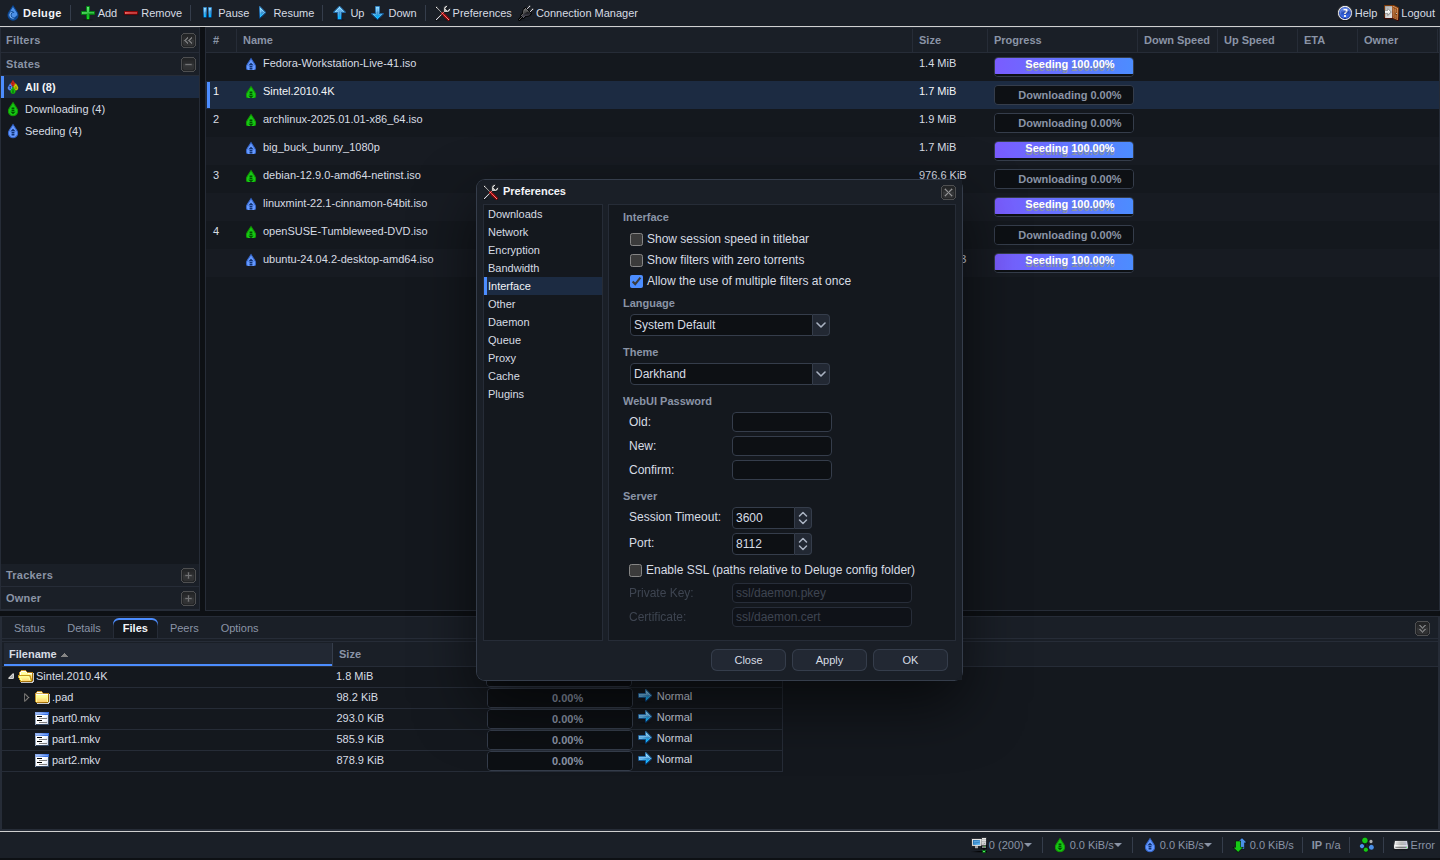
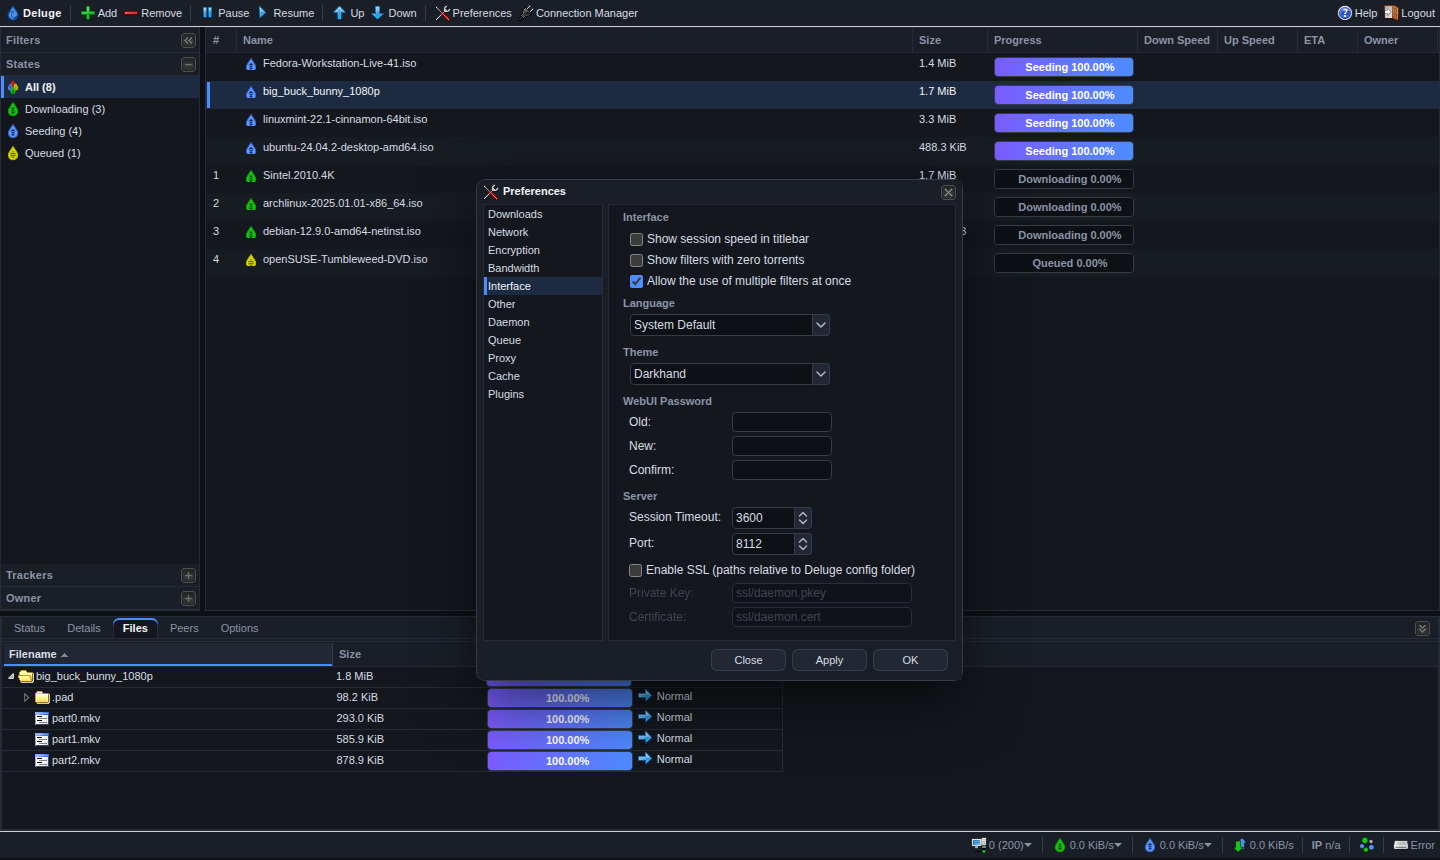
Fix progress bars not filling their track
deluge.css makes bars 2px shorter than the track and the stock themes
hide that with bar borders, which the flat Darkhand bar dropped. Stretch
the bar to the full track height, stack it above the muted back label,
and give both label copies the same offset so partly filled bars read as
one label. Refresh screenshots.

diff --git a/theme/xtheme-darkhand.css b/theme/xtheme-darkhand.css
@@ -1055,7 +1055,14 @@ html input[type='radio'] {
     background: var(--dh-bg-0);
 }
 
-.x-progress-bar {
+/* deluge.css sizes bars a couple of pixels shorter than their track (the
+   stock themes hide the gap with borders), so stretch the flat bar to the
+   full track height. Stacking it above the "back" label keeps that label
+   from peeking out underneath the white one. */
+html body .x-progress-bar {
+    position: relative;
+    z-index: 1;
+    min-height: 100%;
     background: linear-gradient(90deg, var(--dh-accent-2), var(--dh-accent));
     border: 0 none;
 }
@@ -1067,6 +1074,26 @@ html input[type='radio'] {
 
 .x-progress-text-back {
     color: var(--dh-text-muted);
+}
+
+/* The label is drawn twice (white over the bar, muted over the track) and
+   deluge.css gives the two copies different offsets; line them up so a
+   partly filled bar reads as one label. */
+html body .x-progress-wrap .x-progress-inner .x-progress-text {
+    top: 0;
+    height: 100%;
+    margin-top: 0;
+    padding-top: 0;
+    padding-bottom: 0;
+    line-height: 18px;
+}
+
+html body .x-progress-wrap .x-progress-inner .x-progress-text > div {
+    line-height: inherit;
+}
+
+html body .x-tree .x-progress-wrap .x-progress-inner .x-progress-text {
+    line-height: 12px;
 }
 
 /* ------------------------------------------------------------------------ */
